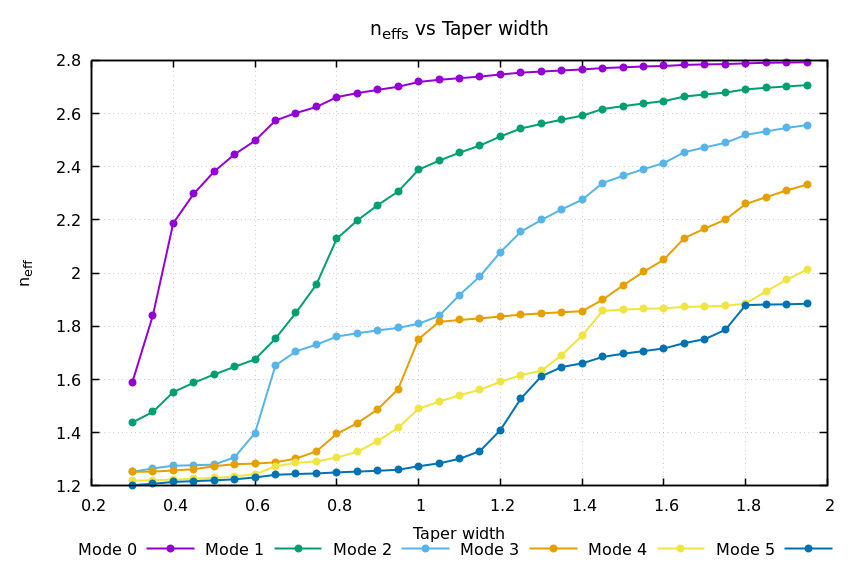
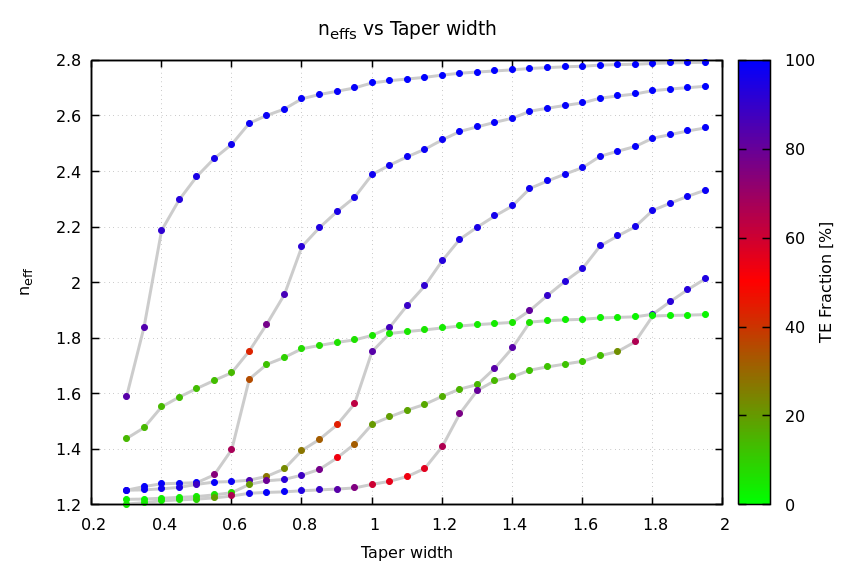
Updated README images.

diff --git a/examples/width-sweep-soi.py b/examples/width-sweep-soi.py
@@ -7,7 +7,7 @@ wl = 1.55
 x_step = 0.02
 y_step = 0.02
 etch_depth = 0.22
-wg_widths = np.arange(0.3, 2., 0.05)
+wg_widths = np.arange(0.3, 2., 0.02)
 sub_height = 1.
 sub_width = 4.
 clad_height = 1.

diff --git a/README.md b/README.md
@@ -331,9 +331,8 @@ solver.solve_sweep_structure(r, wg_widths, x_label='Taper width', fraction_mode_
 solver.write_modes_to_file()
 ```
 
-<img src="./examples/width-sweep/width-sweep-start-n-profile.png" width="400"> <img src="./examples/width-sweep/width-sweep-end-n-profile.png" width="400">
-<img src="./examples/width-sweep/width-sweep-soi.png " width="600">
-<img src="./examples/width-sweep/width-sweep-fraction-te.png " width="400"> <img src="./examples/width-sweep/width-sweep-fraction-tm.png " width="400">
+<img src="./examples/width-sweep/width-sweep-start-n-profile.png" width="300"> <img src="./examples/width-sweep/width-sweep-end-n-profile.png" width="300">
+<img src="./examples/width-sweep/width-sweep-soi.png" width="600">
 
 ## Example 5: Directional Coupler 3dB Length In SOI
 Analytic calculation of 3dB coupling length into two parallel SOI waveguides
